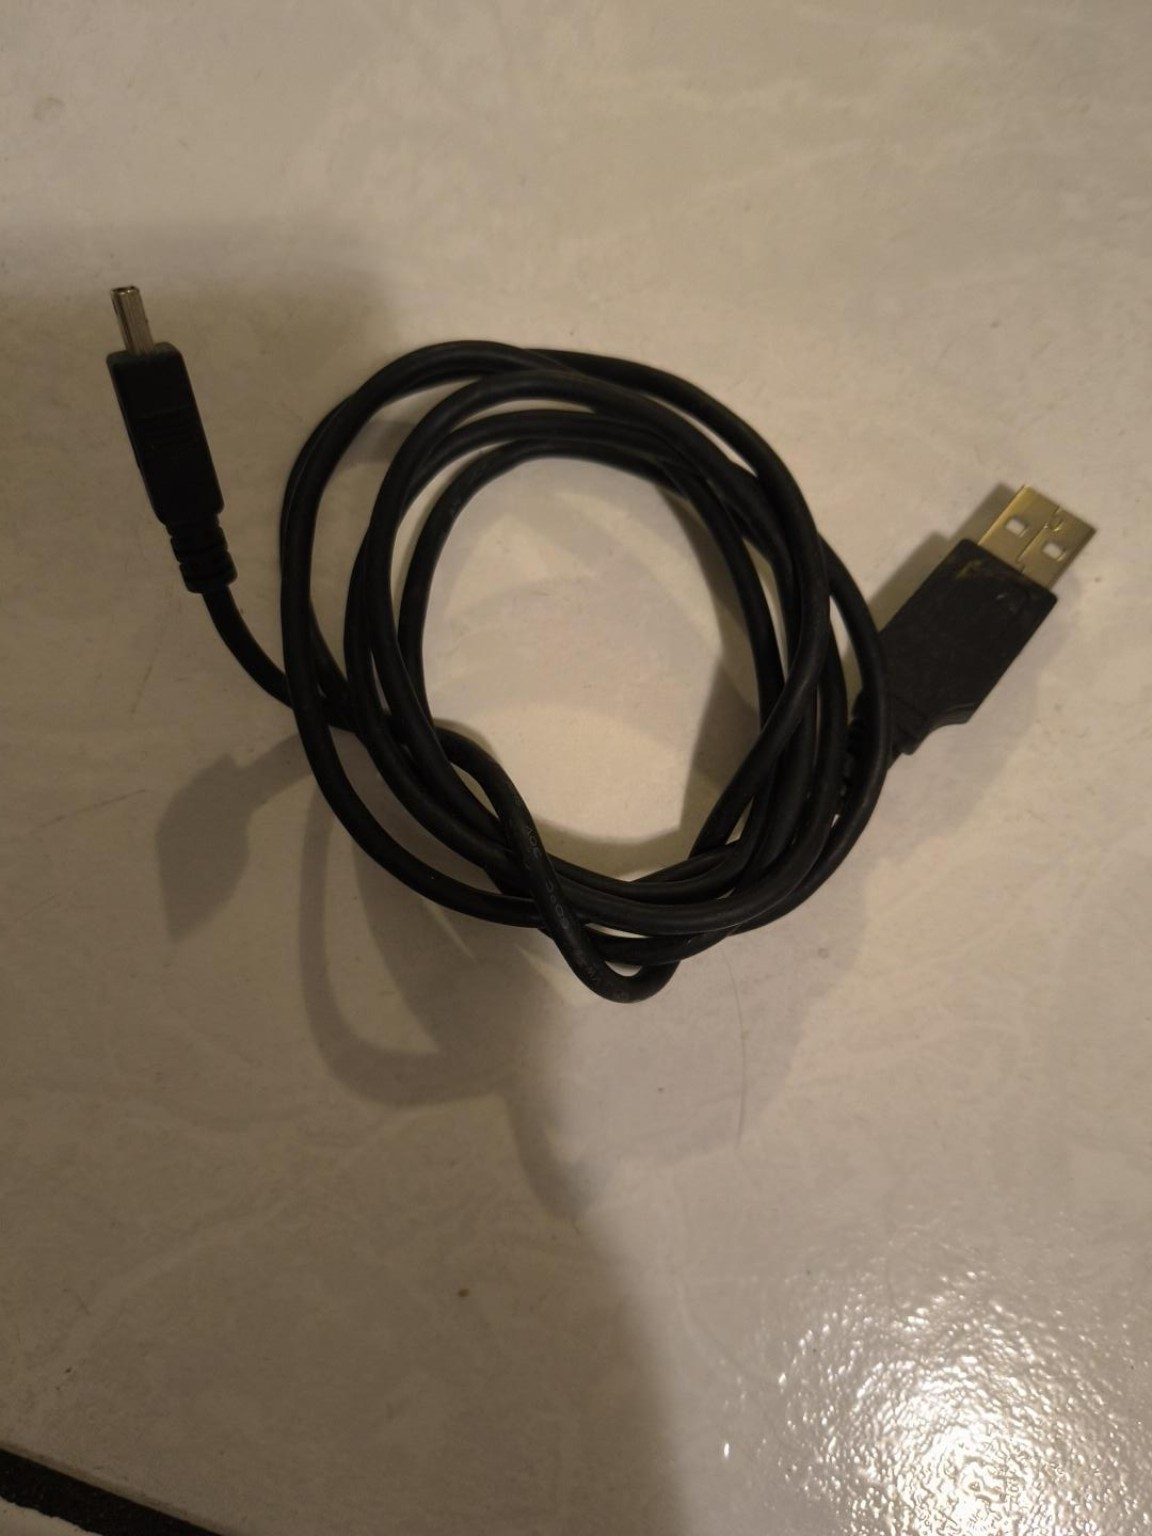
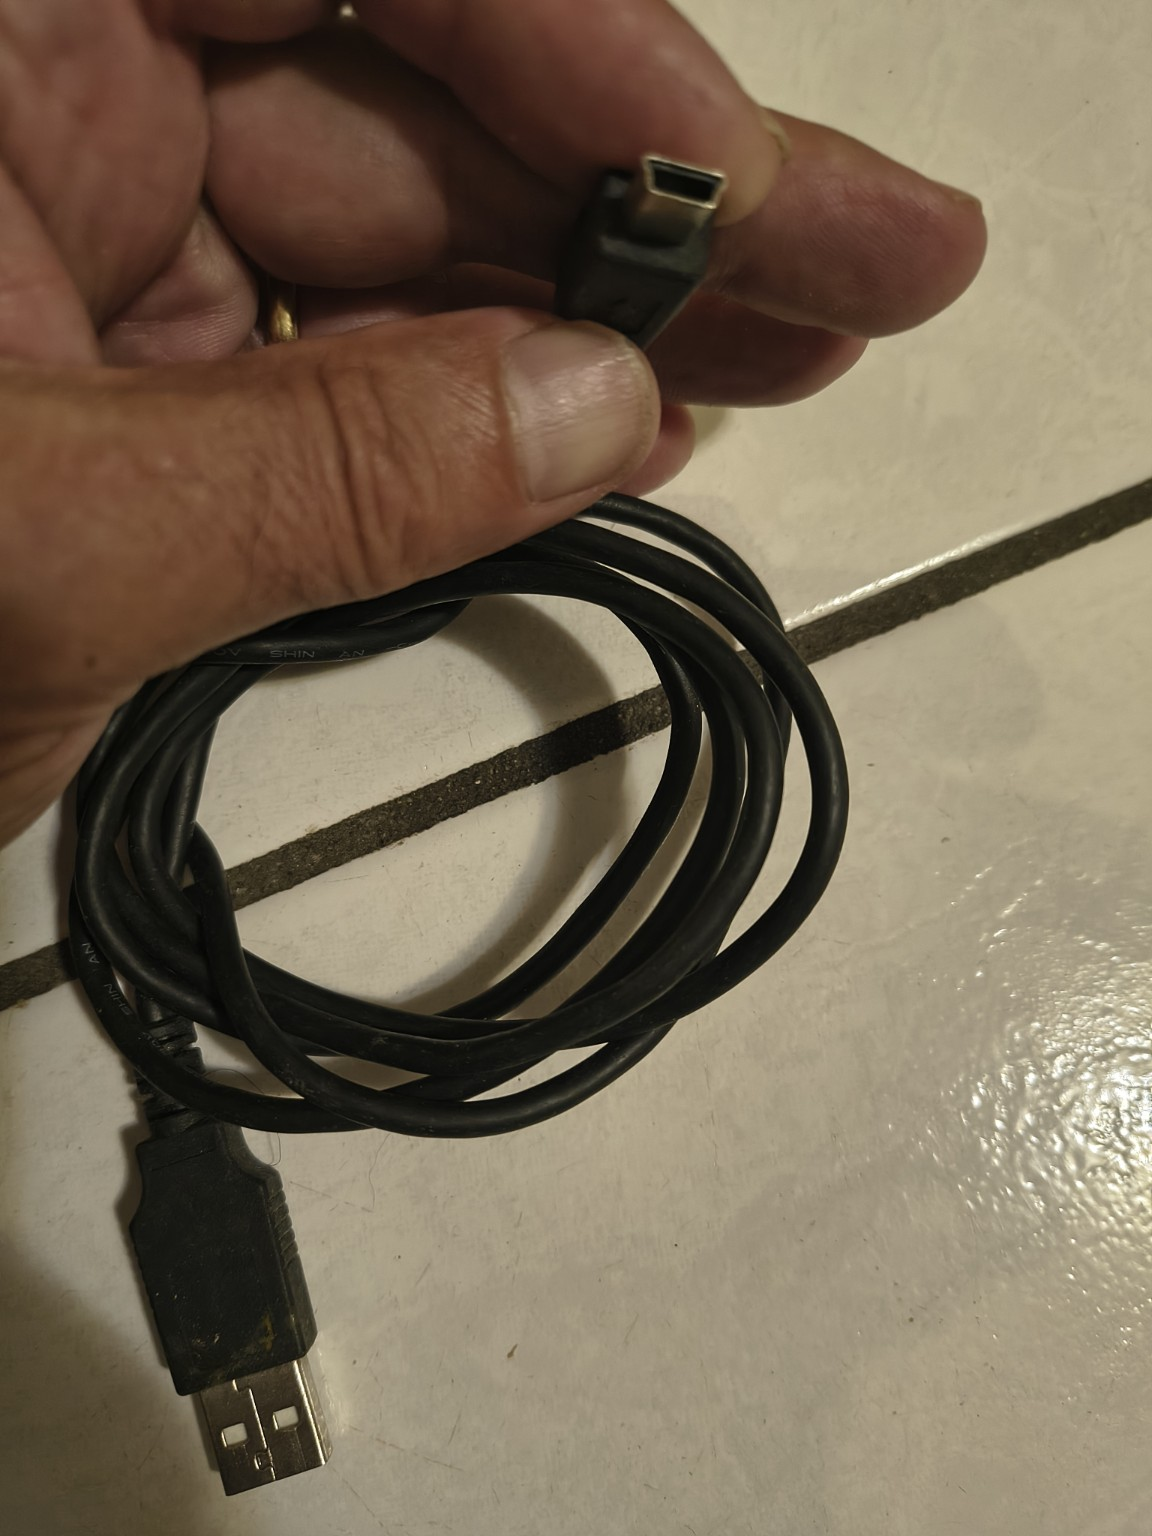
Correct SL-016 as USB-A to Mini-USB cable

diff --git a/sharelab/index.html b/sharelab/index.html
@@ -71,7 +71,7 @@ const ITEMS = [
   {code:'SL-013',name:'Interfaccia USB–MIDI IN/OUT',category:'Audio',subcategory:'Interfacce MIDI',description:'Interfaccia USB-MIDI con connettore USB-A maschio, modulo convertitore e due connettori DIN a 5 poli per MIDI IN e MIDI OUT. Consente di collegare strumenti musicali MIDI a un computer.',bag:'V1.03',bagName:'Audio',quantity:1,image:'/assets/sharelab/SL-013.jpg'},
   {code:'SL-014',name:'Cavo audio AUX jack 3,5 mm maschio–maschio',category:'Audio',subcategory:'Cavi audio analogici',description:'Cavo audio stereo analogico nero con due connettori jack 3,5 mm TRS maschio. Utilizzabile per collegamenti AUX tra dispositivi dotati di ingresso e uscita audio compatibili.',bag:'V1.03',bagName:'Audio',quantity:1,image:'/assets/sharelab/SL-014.jpg'},
   {code:'SL-015',name:'Cavo FireWire IEEE 1394a 4 poli → 6 poli',category:'Dati',subcategory:'Cavi FireWire',description:'Cavo dati nero FireWire IEEE 1394a con connettore maschio a 4 poli e connettore maschio a 6 poli. Utilizzato soprattutto per collegare videocamere digitali DV e periferiche FireWire a computer compatibili.',bag:'V1.01',bagName:'USB e dati',quantity:1,image:'/assets/sharelab/SL-015.jpg'},
-  {code:'SL-016',name:'Cavo alimentazione USB-A → jack DC cilindrico',category:'Alimentazione',subcategory:'Cavi USB bassa tensione',description:'Cavo nero con connettore USB-A maschio e connettore di alimentazione DC cilindrico maschio. Serve ad alimentare dispositivi a bassa tensione da una porta USB; diametro del jack e polarità non sono verificabili dalla foto.',bag:'V1.07',bagName:'Bassa tensione',quantity:1,image:'/assets/sharelab/SL-016.jpg'}
+  {code:'SL-016',name:'Cavo USB-A → Mini-USB Tipo B',category:'Dati',subcategory:'Cavi USB',description:'Cavo dati e alimentazione nero con connettore USB-A maschio e connettore Mini-USB Tipo B maschio. Utilizzato con fotocamere, lettori, navigatori e altre periferiche meno recenti.',bag:'V1.01',bagName:'USB e dati',quantity:1,image:'/assets/sharelab/SL-016.jpg'}
 ];
 const $=s=>document.querySelector(s),q=$('#q'),cat=$('#cat'),bag=$('#bag'),grid=$('#grid'),count=$('#count'),empty=$('#empty'),light=$('#light'),big=$('#big');
 const esc=s=>String(s).replace(/[&<>"']/g,c=>({'&':'&amp;','<':'&lt;','>':'&gt;','"':'&quot;',"'":'&#39;'}[c]));

diff --git a/sharelab/README.md b/sharelab/README.md
@@ -61,4 +61,4 @@ Prossimo codice disponibile: **`SL-017`**.
 - `SL-013` è un'interfaccia USB–MIDI IN/OUT, riposta in `V1.03 — Audio`.
 - `SL-014` è un cavo audio AUX jack 3,5 mm maschio–maschio, riposto in `V1.03 — Audio`.
 - `SL-015` è un cavo FireWire IEEE 1394a 4 poli → 6 poli, riposto in `V1.01 — USB e dati`.
-- `SL-016` è un cavo alimentazione USB-A → jack DC cilindrico, riposto in `V1.07 — Bassa tensione`.
+- `SL-016` è un cavo USB-A → Mini-USB Tipo B, riposto in `V1.01 — USB e dati`.
